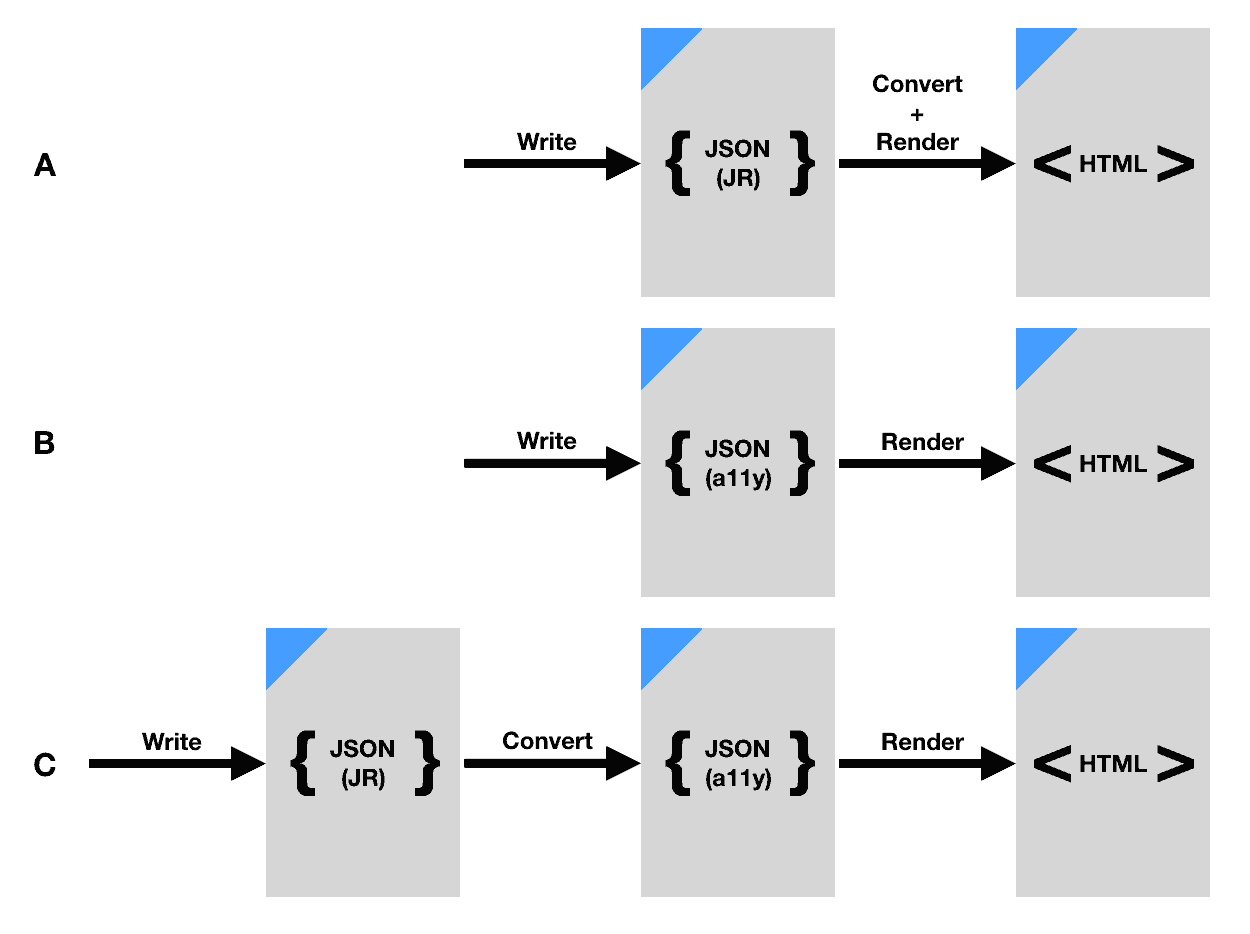
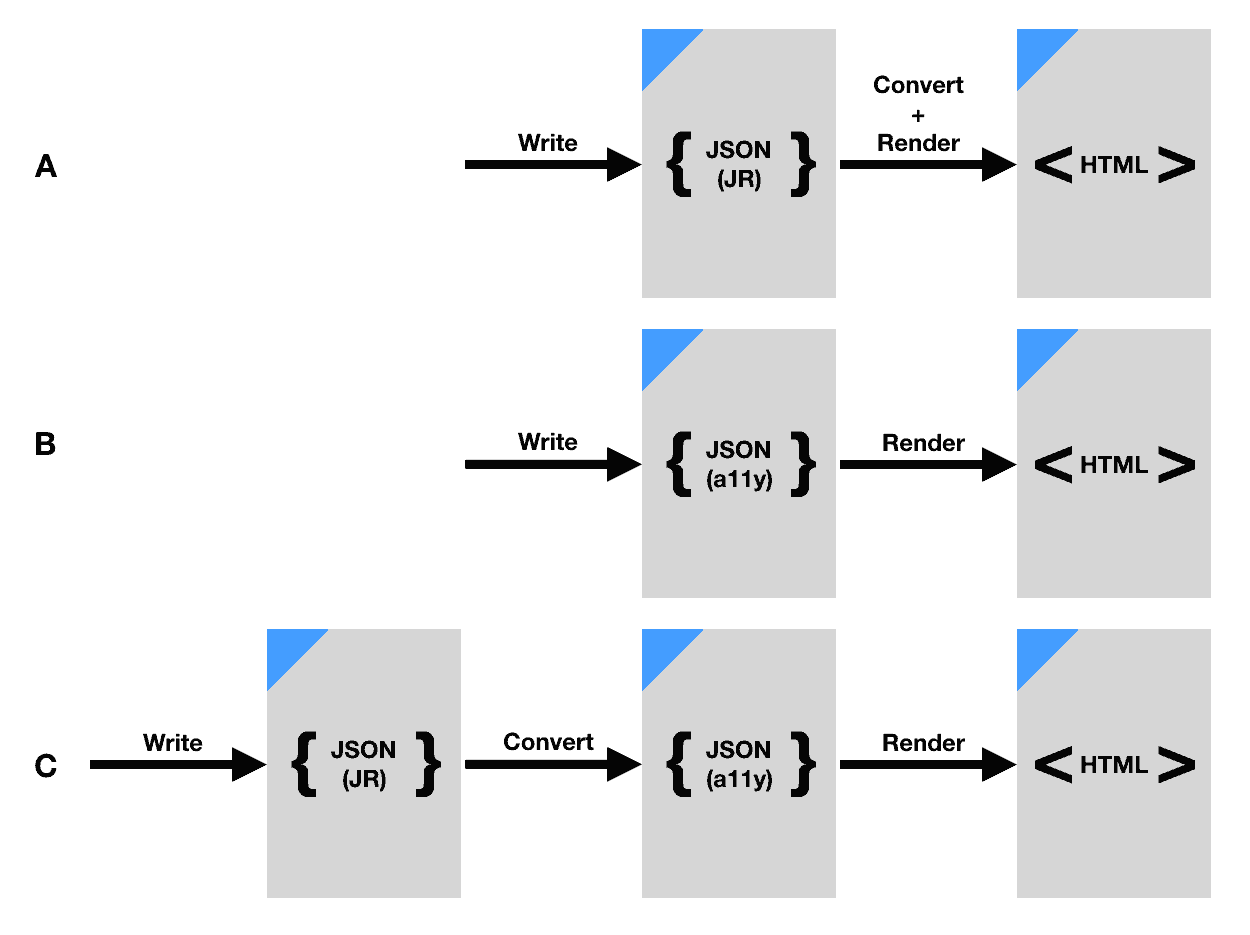
Decreased image size.

diff --git a/README.md b/README.md
@@ -50,7 +50,7 @@ For interoperability with other `jsonresume` themes, this theme contains a modul
 
 The three workflows for producing an HTML résumé with this theme are illustrated here:
 
-<p align="center"><img src="https://github.com/jrpool/jsonresume-theme-a11y/blob/master/public/workflows.png" width=625 height="467" alt="A: write jsonresume JSON, convert+render to HTML; B: write a11y JSON, render to HTML; C: write jsonresume JSON, convert to a11y JSON, render to HTML"></p>
+<p align="center"><img src="https://github.com/jrpool/jsonresume-theme-a11y/blob/master/public/workflows.png" width=500 height="374" alt="A: write jsonresume JSON, convert+render to HTML; B: write a11y JSON, render to HTML; C: write jsonresume JSON, convert to a11y JSON, render to HTML"></p>
 
 ### Installation
 
